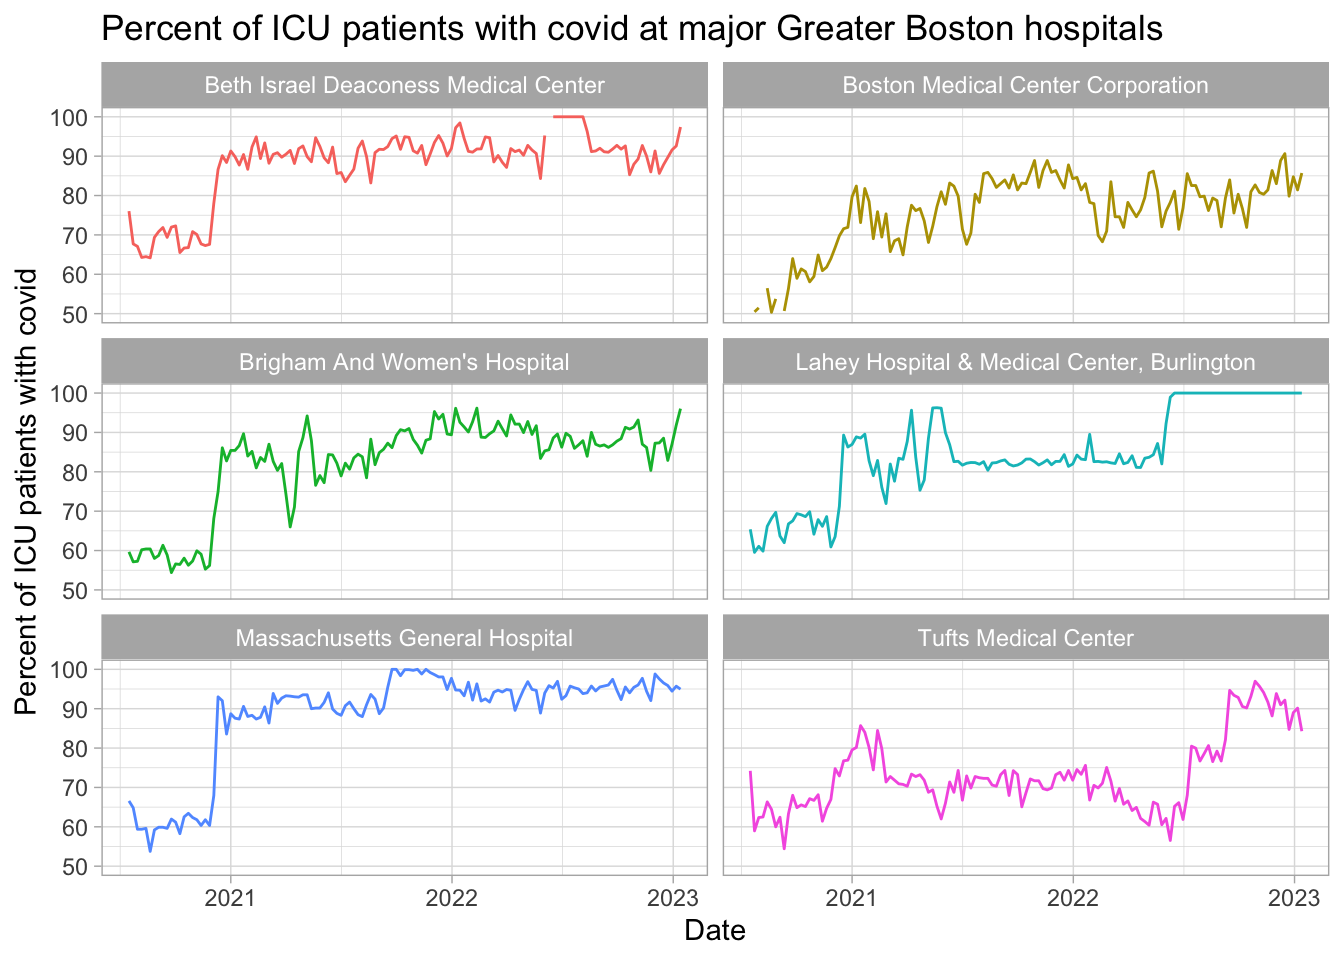
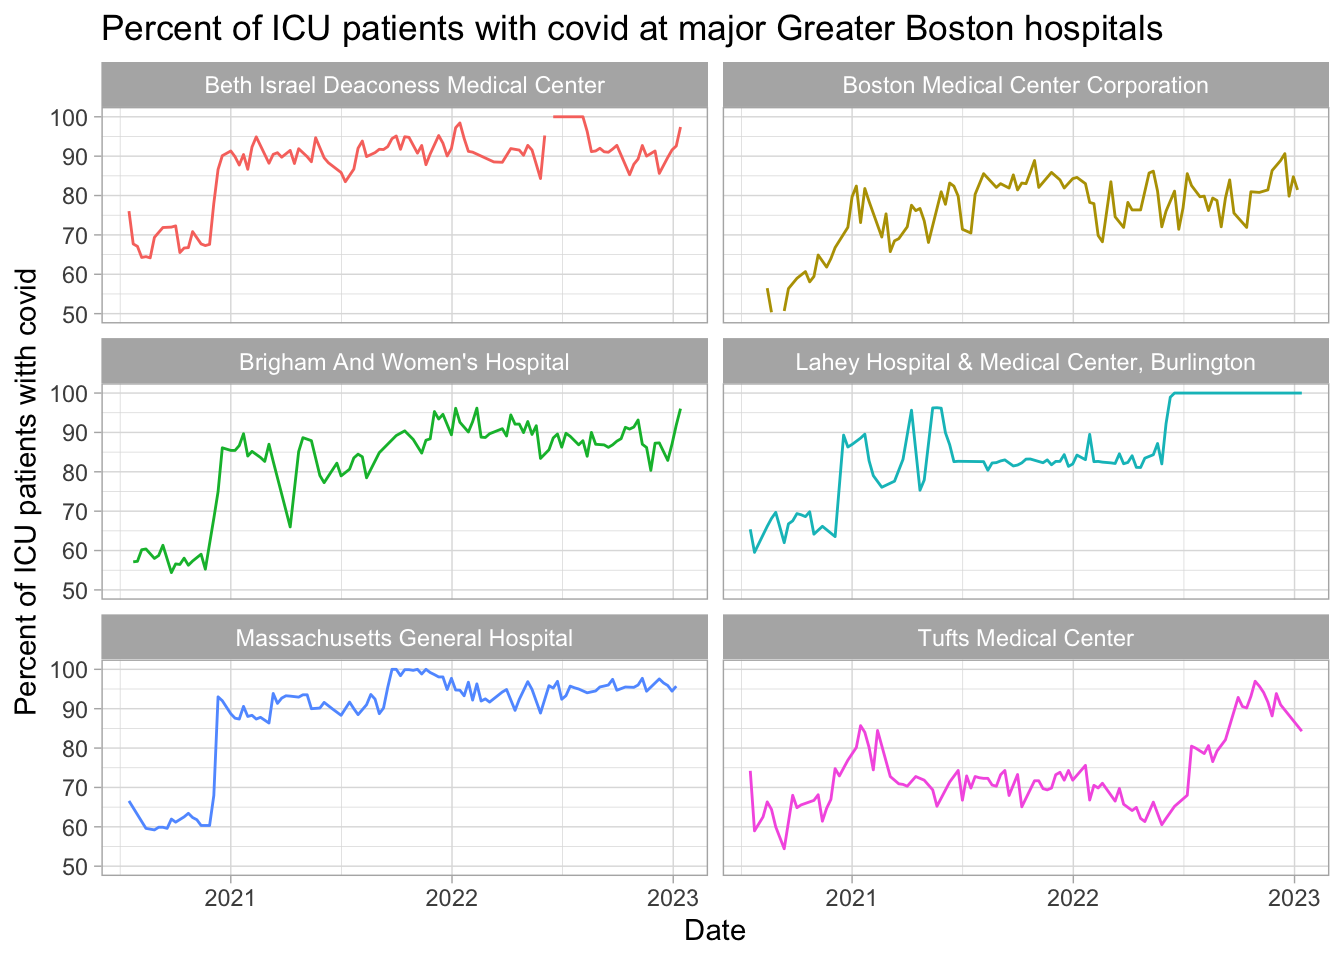
updated data

diff --git a/docs/index.html b/docs/index.html
@@ -337,28 +337,16 @@ with at least 25 staffed ICU beds, using data from the week starting
 <td align="right">89</td>
 </tr>
 <tr class="odd">
-<td align="left">Boston Medical Center Corporation</td>
-<td align="right">17</td>
-<td align="right">88</td>
-<td align="right">81</td>
-</tr>
-<tr class="even">
 <td align="left">Brigham And Women’s Hospital</td>
 <td align="right">4</td>
 <td align="right">160</td>
 <td align="right">98</td>
 </tr>
-<tr class="odd">
+<tr class="even">
 <td align="left">Lahey Hospital &amp; Medical Center, Burlington</td>
 <td align="right">0</td>
 <td align="right">44</td>
 <td align="right">100</td>
-</tr>
-<tr class="even">
-<td align="left">Massachusetts General Hospital</td>
-<td align="right">9</td>
-<td align="right">150</td>
-<td align="right">94</td>
 </tr>
 <tr class="odd">
 <td align="left">Tufts Medical Center</td>

diff --git a/docs/individualhospitals.html b/docs/individualhospitals.html
@@ -313,28 +313,16 @@ usage. Here are data for hospitals in this area.</p>
 <td align="right">89</td>
 </tr>
 <tr class="odd">
-<td align="left">Boston Medical Center Corporation</td>
-<td align="right">17</td>
-<td align="right">88</td>
-<td align="right">81</td>
-</tr>
-<tr class="even">
 <td align="left">Brigham And Women’s Hospital</td>
 <td align="right">4</td>
 <td align="right">160</td>
 <td align="right">98</td>
 </tr>
-<tr class="odd">
+<tr class="even">
 <td align="left">Lahey Hospital &amp; Medical Center, Burlington</td>
 <td align="right">0</td>
 <td align="right">44</td>
 <td align="right">100</td>
-</tr>
-<tr class="even">
-<td align="left">Massachusetts General Hospital</td>
-<td align="right">9</td>
-<td align="right">150</td>
-<td align="right">94</td>
 </tr>
 <tr class="odd">
 <td align="left">Tufts Medical Center</td>
